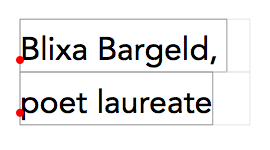
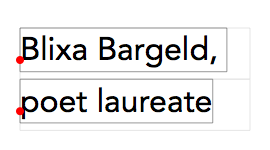
better spacing for line fragment example

diff --git a/src/ref/Typography/types/LineFragment.html b/src/ref/Typography/types/LineFragment.html
@@ -41,13 +41,13 @@ fmt.<span class="red">frame</span> <span class="grey"># the TextFrame object in 
     <div class="example">
       <span><img height="150" src="../etc/ref/line-fragment.png" width="270"/></span>
 <pre>
-font('avenir', 32)
+font('avenir', 32, leading=1.6)
 t = text(20,60, 230, str='Blixa Bargeld, poet laureate')
 
 nofill()
 for slug in t.lines:
-    rect(slug.layout, stroke=.9)
-    rect(slug.bounds, stroke=.6)
+    rect(slug.bounds, stroke=.9)
+    rect(slug.layout, stroke=.6)
     arc(slug.baseline, 4, fill='red')
 </pre>
     </div>
